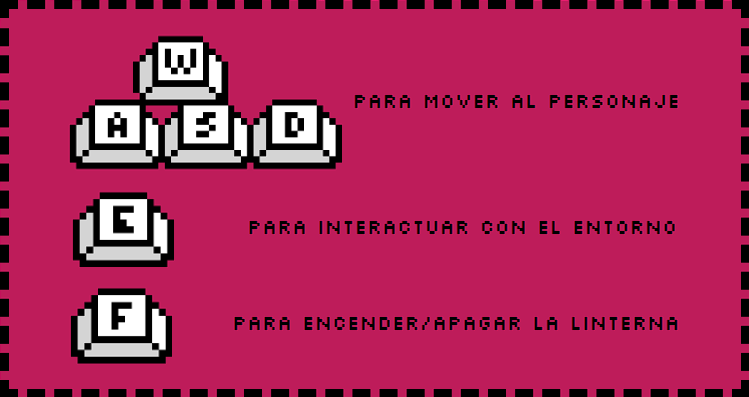
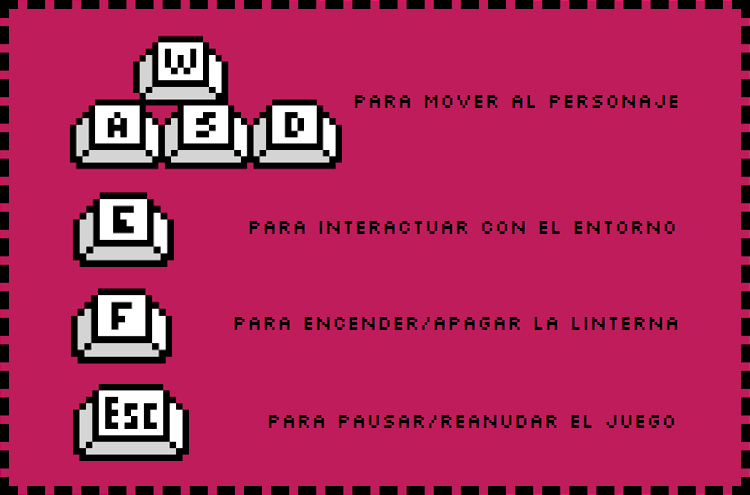
boton pausa

diff --git a/src/scenes/loadingScreen.js b/src/scenes/loadingScreen.js
@@ -57,7 +57,6 @@ export default class loadingScreen extends Phaser.Scene {
             assetText.destroy();
         });
         
-        //Assets de 'title'
         this.load.image('fondo-present', 'assets/fondo-present.png');
         this.load.image('logo', 'assets/logo-studio2.png');
         this.load.image('start', 'assets/start3.png');
@@ -75,6 +74,7 @@ export default class loadingScreen extends Phaser.Scene {
 
 		this.load.image('soundon', 'assets/sound_on.png');
 		this.load.image('soundoff', 'assets/sound_off.png');
+
 		this.load.audio('titlesong', ['assets/audio/titlesong.mp3', 'assets/audio/titlesong.ogg']);
 		this.load.audio('rain', 'assets/audio/zapsplat_nature_thunder_distant_or_high_above_very_light_rain_001_45552.mp3');
         this.load.audio('sonlinterna', 'assets/audio/zapsplat_household_torch_flashlight_maglite_switch_on_or_off_001.mp3');
@@ -84,12 +84,11 @@ export default class loadingScreen extends Phaser.Scene {
         this.load.audio('sonGameOver', 'assets/audio/tradio_interference.mp3');
         this.load.audio('sonWin', 'assets/audio/win.mp3');
 
-
         this.load.image('cursorCustom', 'assets/vertopal.com_cursorHover.png');
         this.load.image('controllers', 'assets/controles.png');
 
-        //Assets de 'firstLevel'
         this.load.bitmapFont('fuente', 'assets/fuentes/ComicSansMs.png','assets/fuentes/ComicSansMs.xml');
+
 		this.load.spritesheet('cabezaPesanta', 'assets/pesanta-580-500.png', {frameWidth: 580, frameHeight: 500});
 		this.load.spritesheet('filemon', 'assets/filemon-250-400.png', {frameWidth: 250, frameHeight: 400});
 		this.load.spritesheet('battery', 'assets/SpriteSheet_Batery3.png',{frameWidth: 280, frameHeight: 370});
@@ -98,12 +97,18 @@ export default class loadingScreen extends Phaser.Scene {
 		//this.load.spritesheet('llave', 'assets/llaves_de_colores.png', {frameWidth: 48, frameHeight: 40});
         this.load.spritesheet('llave', 'assets/llaves_de_colores.png', {frameWidth: 30, frameHeight: 20});
 		this.load.spritesheet('armario', 'assets/armario-125-125.png', {frameWidth: 125, frameHeight: 125});
+
 		//Cargamos el archivo JSON necesario para importar el Tilemap
 		this.load.tilemapTiledJSON('tilemap','assets/Tilemap/MapaPiso1Definitivo.json');
+
 		//Cargamos los tilesets necesarios para poder crear el mapa
 		this.load.image('nuevosMuros','assets/Tilemap/nuevosMuros.jpeg');
 		//this.load.image('puertas','../../assets/Tilemap/puertas.png');
 		this.load.image('mapaImg','assets/Tilemap/mapaCapa.png');
+
+        this.load.image('noPausado', 'assets/pausa.png');
+        this.load.image('pausado', 'assets/reanuda.png');
+
 	}
 	
 	/**

diff --git a/src/scenes/pauseScreen.js b/src/scenes/pauseScreen.js
@@ -2,10 +2,10 @@ export default class PauseMenu extends Phaser.Scene {
   constructor() {
     super({ key: 'pauseMenu' });
   }
-
+  
   create() {
     // create a sprite
-
+    this.pauseKey();
     // Create a dark background for the pause menu
     const bg = this.add.rectangle(0, 0, this.sys.game.canvas.width, this.sys.game.canvas.height, 0x000000, 0.5).setOrigin(0);
 
@@ -13,7 +13,7 @@ export default class PauseMenu extends Phaser.Scene {
     const title = this.add.text(this.sys.game.canvas.width / 2, 50, 'PAUSED', { fontFamily: 'silkscreenregular', fontSize: '64px', color: '#ffffff' }).setOrigin(0.5);
 
     // Add a "Resume" button to return to the game
-    const resumeButton = this.add.text(this.sys.game.canvas.width / 2, 125, 'Reanudar', { fontFamily: 'silkscreenregular', fontSize: '32px', color: '#ffffff' }).setOrigin(0.5);
+    const resumeButton = this.add.text(this.sys.game.canvas.width / 2, 115, 'Reanudar', { fontFamily: 'silkscreenregular', fontSize: '32px', color: '#ffffff' }).setOrigin(0.5);
     resumeButton.setInteractive({ cursor: 'url(assets/vertopal.com_cursorHover.png), pointer' });
     resumeButton.on('pointerdown', () => {
       this.scene.resume('firstLevel');
@@ -21,7 +21,7 @@ export default class PauseMenu extends Phaser.Scene {
     });
 
     // Add a "Quit" button to return to the main menu
-    const quitButton = this.add.text(this.sys.game.canvas.width / 2, 175, 'Menu principal', { fontFamily: 'silkscreenregular', fontSize: '32px', color: '#ffffff' }).setOrigin(0.5);
+    const quitButton = this.add.text(this.sys.game.canvas.width / 2, 150, 'Menu principal', { fontFamily: 'silkscreenregular', fontSize: '32px', color: '#ffffff' }).setOrigin(0.5);
     quitButton.setInteractive({ cursor: 'url(assets/vertopal.com_cursorHover.png), pointer' });
     quitButton.on('pointerdown', () => {
       this.scene.stop('firstLevel');
@@ -31,9 +31,21 @@ export default class PauseMenu extends Phaser.Scene {
       }.bind(this), 300); // espera 0.3 segundos antes de cambiar de escena
     });
    
-    var imagePresent = this.add.image(this.sys.game.canvas.width/2,300, 'controllers');
-    imagePresent.setScale(0.45);
+    var imagePresent = this.add.image(this.sys.game.canvas.width/2,280, 'controllers');
+    imagePresent.setScale(0.40);
 
   }
+
+  pauseKey() {
+
+		this.input.keyboard.on('keydown-ESC', function (event) {
+
+			this.scene.resume('firstLevel');
+      this.scene.stop('pauseMenu');
+
+		}.bind(this));
+
+	}
+
 }
   

diff --git a/src/scenes/firstLevel.js b/src/scenes/firstLevel.js
@@ -82,6 +82,16 @@ export default class firstLevel extends Phaser.Scene {
 		this.retroText.setTint(0xffffff);
 		this.retroText.setDepth(4);
 
+		//boton ppausa
+		this.botonPausa = this.add.image(this.sys.game.canvas.width-20, 20, 'noPausado');
+		this.botonPausa.setInteractive({ cursor: 'url(assets/vertopal.com_cursorHover.png), pointer' });
+		this.botonPausa.on('pointerup', pointer => {
+			this.scene.pause(this);
+			this.scene.launch('pauseMenu');
+	    });
+		this.botonPausa.setScale(0.25);
+		this.botonPausa.setDepth(5);
+
 		let path = this.add.path(1200,1754)
 			.lineTo(1200,1900)
 			.lineTo(1400,1900);
@@ -99,13 +109,17 @@ export default class firstLevel extends Phaser.Scene {
 		this.physics.add.overlap(this.llave3, this.player, this.player.cojeObjeto, null, this.player);
 		this.physics.add.overlap(this.llave4, this.player, this.player.cojeObjeto, null, this.player);
 
-
 	}
 	update() {
         // actualizar la posición del texto en función de la posición actual del jugador
 		if (this.retroText) {
 			this.retroText.x = this.cameras.main.scrollX + 10; // posicionar el texto en la esquina superior izquierda, dejando 10 píxeles de margen
 			this.retroText.y = this.cameras.main.scrollY + 10; // posicionar el texto en la esquina superior izquierda, dejando 10 píxeles de margen
+		}
+
+		if (this.botonPausa) {
+			this.botonPausa.x = this.cameras.main.scrollX + this.sys.game.canvas.width-20; // posicionar el texto en la esquina superior izquierda, dejando 10 píxeles de margen
+			this.botonPausa.y = this.cameras.main.scrollY + 25; // posicionar el texto en la esquina superior izquierda, dejando 10 píxeles de margen
 		}
     }
 	cambioEntrada(){
@@ -202,10 +216,10 @@ export default class firstLevel extends Phaser.Scene {
 
 	pauseMenu() {
 
-		this.input.keyboard.on('keydown-P', function (event) {
+		this.input.keyboard.on('keydown-ESC', function (event) {
 
 			this.scene.pause(this);
-			this.scene.launch('pauseMenu');
+			this.scene.launch('pauseMenu', {pausado: this.pausa});
 
 		}.bind(this));
 

diff --git a/index.html b/index.html
@@ -66,6 +66,9 @@
 			<br>
 			<img src="assets/controlF.png" alt="Controles linterna" style="width: 15%; height: 15%;vertical-align:middle; margin-right: 40px;"> Para encender/apagar la linterna
 			</br>
+			<br>
+			<img src="assets/controlEsc.png" alt="Controles pausa" style="width: 17%; height: 17%;vertical-align:middle; margin-right: 54px;"> Para pausar/reanudar el juego
+			</br>
 		</p>
 	</div>
 
